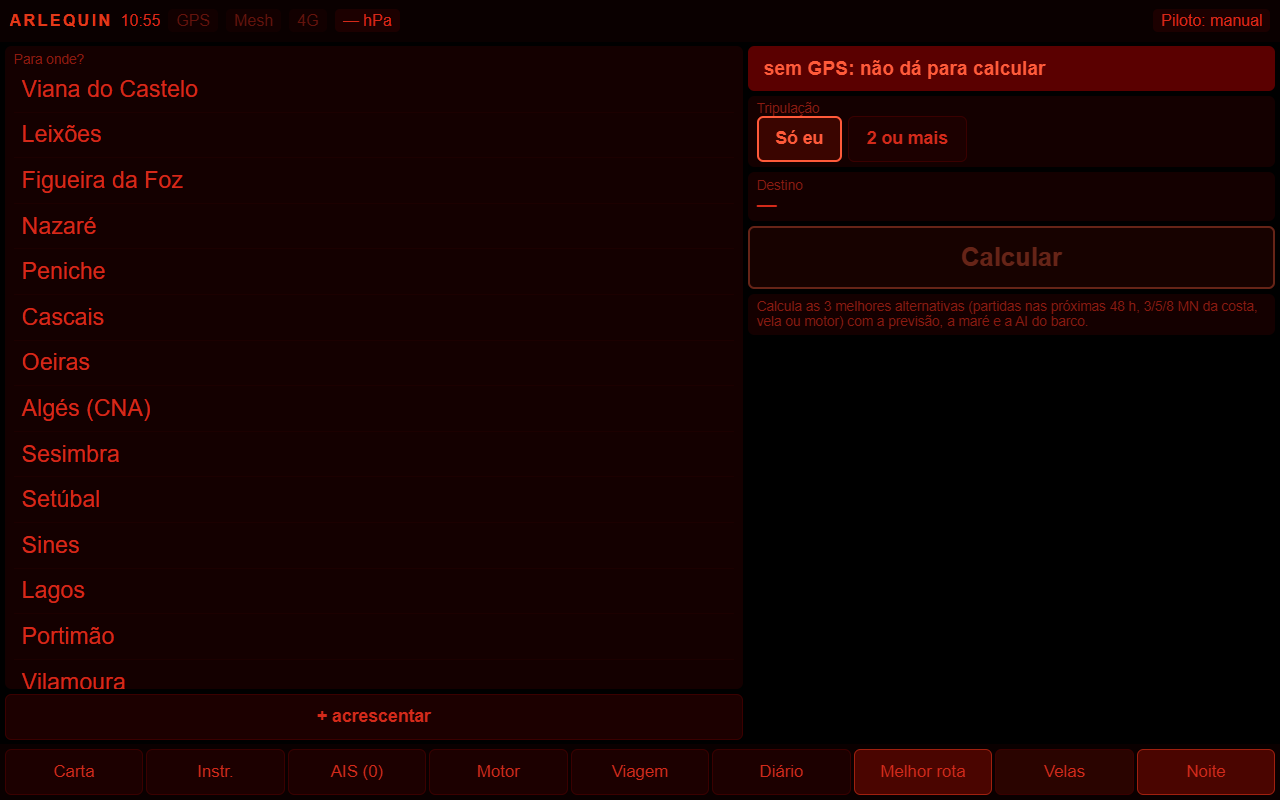
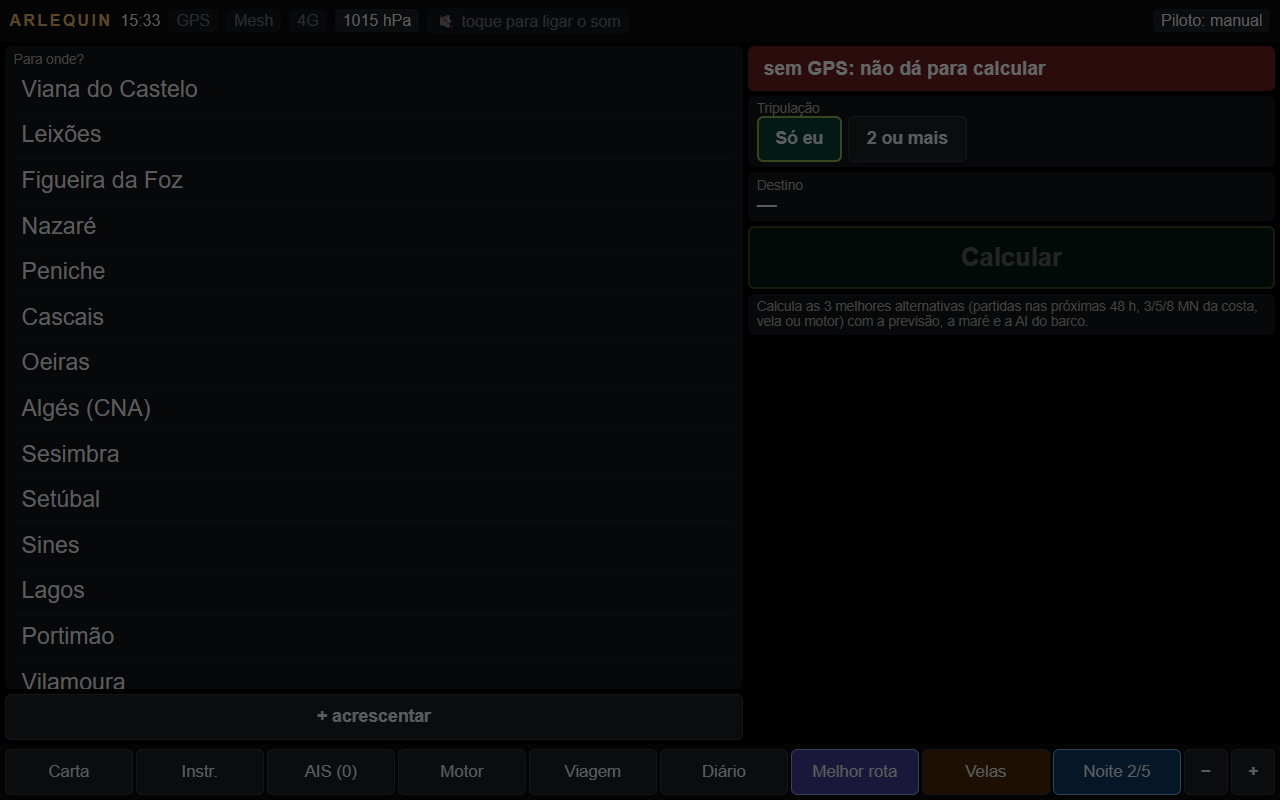
Docs 3b-2: capturas e guia (Tarefa 8 e o modo noite novo)
- docs/capturas-3b2: as 8 do Leme refeitas pela viagem acelerada (Leme limpo, lembrete "virar/cambar
  na Linha de 5 MN", recalcula, recursos e barómetro, rota mudada), mais a rotação do vento e o
  brilho de noite no nível 1 e no 5 (noite-brilho-1/5.png, o mini-mapa com a vela e o motor)
- docs/capturas-3b1: as 14 de noite refeitas com o modo noite novo, pelo ecrã com resultados gravados
- NAVEGACAO: o modo noite (decisão do Ivo de 01/10, substitui o vermelho de 29/09) com o brilho − e +;
  a chegada em pausa com o afastamento real, a rota mudada ao fim de 2 min, os lembretes novos, a
  referência "ref. A3", as novas tentativas sem o chat do Ivo, o "Resolvido" uma só vez depois de um
  reinício e o "MODO DE TESTE" no estado do plugin

diff --git a/NAVEGACAO.md b/NAVEGACAO.md
@@ -871,7 +871,17 @@ Com tudo num ecrã só, esse ecrã passa a ser um ponto único de falha.
 | Diário | signalk-logbook: hora a hora, motor, **velas**, **rota**, **alarmes (e se foram por Mesh)**, entradas de um toque, cópia Wi-Fi |
 | Melhor rota | GRIB + polar + Weather Routing: isócronas, rota ótima vs direta, limites a solo, **ativar no piloto** |
 | Rec. velas | Verificações, bordo e desvio, aproar ao vento com o EV-100, terminar, registo no diário |
-| Noite | Tudo a vermelho |
+| Noite | As cores do dia muito escurecidas, com − e + para o brilho (ver abaixo) |
+
+**Modo noite (decisão do Ivo de 01/10; substitui o modo noite a vermelho de 29/09):** o Ivo não
+distinguia as linhas coloridas em vermelho e não gosta dele. O modo noite passa a ter **as mesmas
+cores do dia** — vela azul, motor cinzento, perigo vermelho, ok verde, avisos âmbar, a terra e o mar
+do mini-mapa — **muito escurecidas**, sobre fundo preto, com o texto em cinzento escuro e sem áreas
+grandes claras (nem brancas nem azul-claras). Ao lado do botão **Noite** ficam **−** e **+** (só de
+noite, 44 px para o dedo): 5 níveis de brilho (1 o mais escuro, **2 por omissão**, 5 o mais claro);
+o nível fica guardado no ecrã e o botão diz "Noite 2/5". Vale para todas as páginas (Carta, Instr.,
+AIS, Motor, Viagem, Diário, Melhor rota com o mini-mapa e o Leme, Velas). Capturas do nível mais
+escuro e do mais claro em `docs/capturas-3b2/noite-brilho-1.png` e `noite-brilho-5.png`.
 
 Barra de cima sempre visível: nome, hora, GPS, **Meshtastic**, **4G**,
 pressão, **estado do piloto**, **alarme AIS**.
@@ -1377,7 +1387,8 @@ quem o recebe para ligar ao Ivo e, se ele não atender, ao MRCC Lisboa (+351 214
 #### A navegar (3b-2)
 
 Desenho em `docs/superpowers/specs/2026-10-01-melhor-rota-navegar-3b2-design.md`; capturas do Leme
-(faixa, avisos, rota mudada), de dia e de noite, em `docs/capturas-3b2/`. Corre no **plugin da rota,
+(faixa com o lembrete de virar/cambar, recalcula, rota mudada, recursos e barómetro, rotação do vento), de dia e de noite
+(o modo noite de 01/10, brilho 2), em `docs/capturas-3b2/`. Corre no **plugin da rota,
 no Pi**, de minuto a minuto: funciona com o ecrã desligado e continua depois de um reinício (o plano
 fica gravado em `plano-ativo.json`, na pasta do plugin). **Nunca muda a rota sozinho.**
 
@@ -1385,8 +1396,10 @@ fica gravado em `plano-ativo.json`, na pasta do plugin). **Nunca muda a rota soz
 sair". Passa a "a navegar" quando o barco fica a mais de 0,5 MN da partida (em duas leituras
 seguidas) ou anda a mais de 2 nós durante 5 min. Chega quando fica a menos de 0,3 MN do cais do
 destino, parado (menos de 0,5 nó) durante 5 min, depois de feita pelo menos metade da rota (numa rota
-com menos de 1 MN, depois de 5 min a navegar). Um plano novo começa limpo; os 5 últimos ficam em
-`planos-fechados.json`.
+com menos de 1 MN, depois de 5 min a navegar). Com a rota limpa ou trocada no OpenCPN (o plano em
+pausa), conta também o afastamento real: se já estiveste a pelo menos 1 MN da partida (ou a metade
+da distância em linha reta até ao destino, se for menor), chegar e ficar 5 min no cais dá o "cheguei
+bem" na mesma. Um plano novo começa limpo; os 5 últimos ficam em `planos-fechados.json`.
 
 **A faixa no Leme**, por cima do rumo:
 - "próximo: rizar às 22:50 (daqui a 25 min) · +20 min sobre o plano" (os eventos de sítio — rizar,
@@ -1398,9 +1411,11 @@ com menos de 1 MN, depois de 5 min a navegar). Um plano novo começa limpo; os 5
 - antes de sair: "plano ativo · à espera de sair".
 
 **O que o sistema avisa** (na barra de cima, com o apito curto; nenhum muda a rota):
-- **Lembretes**, 30 min antes: rizar ou largar rizo, a frente, chuva e pouca visibilidade ("radar
-  ligado e luzes"), o pôr do sol ("luzes, arnês, come antes de escurecer") e a chegada de noite.
-  Só no ecrã.
+- **Lembretes**, 30 min antes: rizar ou largar rizo, a frente, chuva e visibilidade abaixo de 5 km
+  ("radar ligado e luzes"), o pôr do sol ("luzes, arnês, come antes de escurecer"), a chegada de
+  noite, **virar/cambar** nos pontos da rota onde o rumo muda mais de 45° ("virar/cambar no Cabo
+  Raso") e a **rotação do vento** previsto de mais de 45° em 1 h ("rotação do vento de 350° para
+  50°"). Só no ecrã.
 - **Come e bebe** (só com "só eu"), de 3 em 3 h desde a saída, durante 15 min. Só no ecrã.
 - **Recalcula a rota**: atraso de mais de 30 min, ou o vento medido (média de 10 min) afastado do
   previsto mais de 30 % e mais de 4 nós durante 30 min seguidos. Apaga-se com os dois normais
@@ -1411,7 +1426,9 @@ com menos de 1 MN, depois de 5 min a navegar). Um plano novo começa limpo; os 5
   alarme com o apito curto, "confia nos instrumentos e no barómetro", e vai para o teu Telegram.
 - **Barómetro**: queda de mais de 3 hPa em 3 h, "o tempo pode piorar antes do previsto"; apaga-se
   com a queda em 3 h até 2 hPa. Vai também para o teu Telegram.
-- O teu Telegram recebe o "✓ Resolvido" quando passam. O apito contínuo fica só para o AIS.
+- O teu Telegram recebe o "✓ Resolvido" quando passam, uma só vez (o plugin porto guarda o que já
+  te mandou em `encaminhador.json`: um reinício do servidor não repete os avisos nem o "Resolvido").
+  O apito contínuo fica só para o AIS.
 
 **O que os contactos em terra recebem** (só se o plano lhes foi enviado; vão também para o teu chat):
 - "Cheguei bem a Peniche às 10:24. Obrigado!" à chegada (uma vez);
@@ -1423,7 +1440,12 @@ com menos de 1 MN, depois de 5 min a navegar). Um plano novo começa limpo; os 5
 - "Viagem terminada / mudança de planos: estou bem, em <posição> às HH:MM." ao Terminar;
 - o plano novo, com "Este plano substitui o anterior", ao Recalcular → Ativar.
 - Nada mais: os lembretes, os avisos e a rota mudada nunca vão para terra. Sem rede (ou sem o
-  plugin porto), as mensagens ficam em fila e voltam a tentar de 2 em 2 min.
+  plugin porto), as mensagens ficam em fila e voltam a tentar de 2 em 2 min (no teu chat só a 1.ª
+  vez). Um atraso que fica na fila sai com os valores da hora a que sai, e já não sai se entretanto
+  recuperaste.
+- Cada mensagem acaba com uma referência curta ("ref. A3"), a mesma em todas as tentativas: depois
+  de um reinício a meio de um envio a mensagem volta a sair (perder um atraso é pior do que o contacto
+  o receber duas vezes) e quem a recebe vê que é a mesma.
 
 **Os botões:**
 - **Recalcular**: um cálculo novo de onde estás para o mesmo destino e tripulação; abre o
@@ -1433,7 +1455,9 @@ com menos de 1 MN, depois de 5 min a navegar). Um plano novo começa limpo; os 5
   partidas. Um cálculo antigo é recusado e o plano antigo fica.
 - **Terminar** (pede confirmação: "Terminar o plano? Os contactos em terra recebem 'viagem
   terminada, estou bem'"): fecha o plano e os avisos.
-- **Rota mudada no OpenCPN** (outra rota ativa, ou nenhuma): o plano fica em pausa e o Leme mostra
+- Com o plano ativo, o Leme fica limpo: só o **Recalcular** (sai o "Novo cálculo" e o texto do OpenCPN).
+- **Rota mudada no OpenCPN** (outra rota ativa, ou nenhuma, durante pelo menos 2 min: logo a seguir a
+  um reinício a API de rumo pode ainda não ter a rota): o plano fica em pausa e o Leme mostra
   "a rota ativa já não é a do plano: terminar o plano?" com **Terminar**, **Continuar** (volta a
   ativar a rota do plano) e **Recalcular**. Nada segue sozinho para terra, exceto a chegada ao cais
   do plano (a mesma regra: "cheguei bem"). Parado 30 min noutro porto da lista, o Leme pergunta
@@ -1448,5 +1472,6 @@ no plugin da rota, de `modoTeste: true` com `horaSimulada: true` e `cicloSegundo
 configuração do servidor e recusa-se a correr sem ela (no Pi, com a segurança do SignalK ligada, nem a
 consegue ler). As opções de teste estão **desligadas por omissão**: `modoTeste` é `false` e, sem ele,
 `horaSimulada` e `cicloSegundos` não contam (no barco, o ciclo é sempre de 60 s); no fim do teste,
-desliga o `modoTeste`. Ctrl-C a meio termina o plano, desativa a rota e repõe a hora. Com
+desliga o `modoTeste`. Com ele ligado, o estado do plugin no Plugin Config começa por "MODO DE TESTE
+(hora simulada, ciclo de 1 s)", para nunca passar despercebido no barco. Ctrl-C a meio termina o plano, desativa a rota e repõe a hora. Com
 `--pausa <ficheiro>`, a hora pára enquanto o ficheiro existir.
